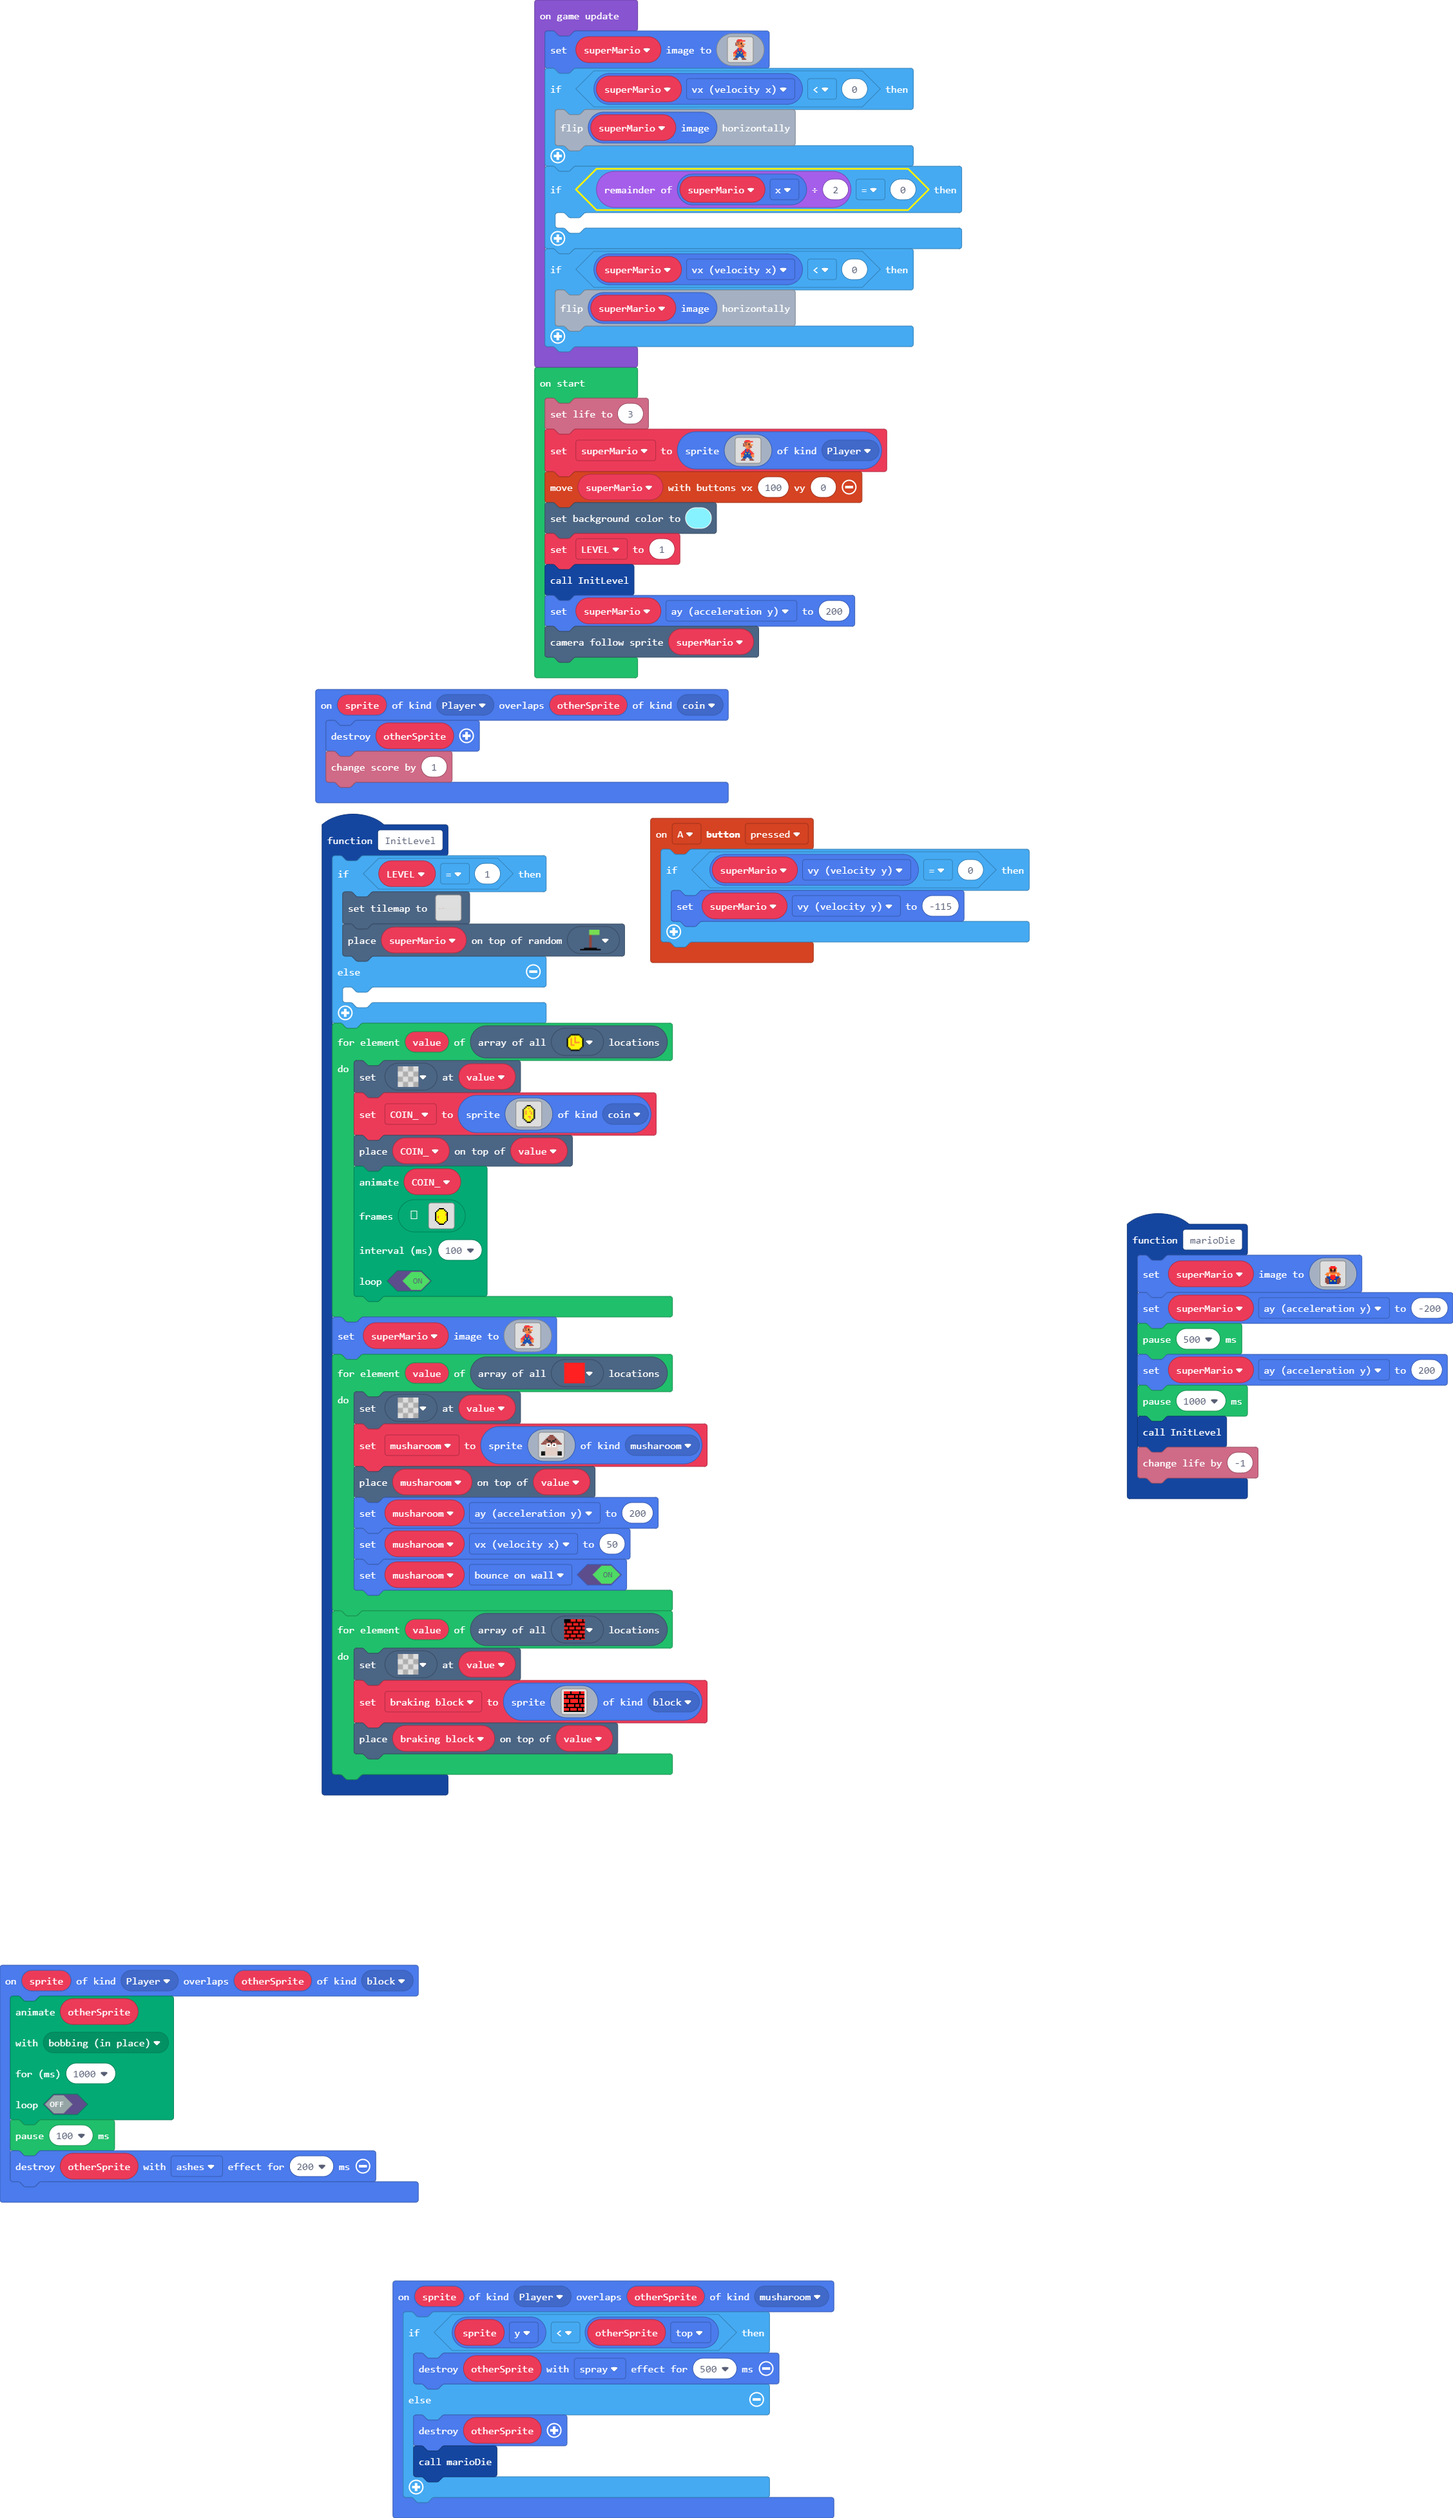
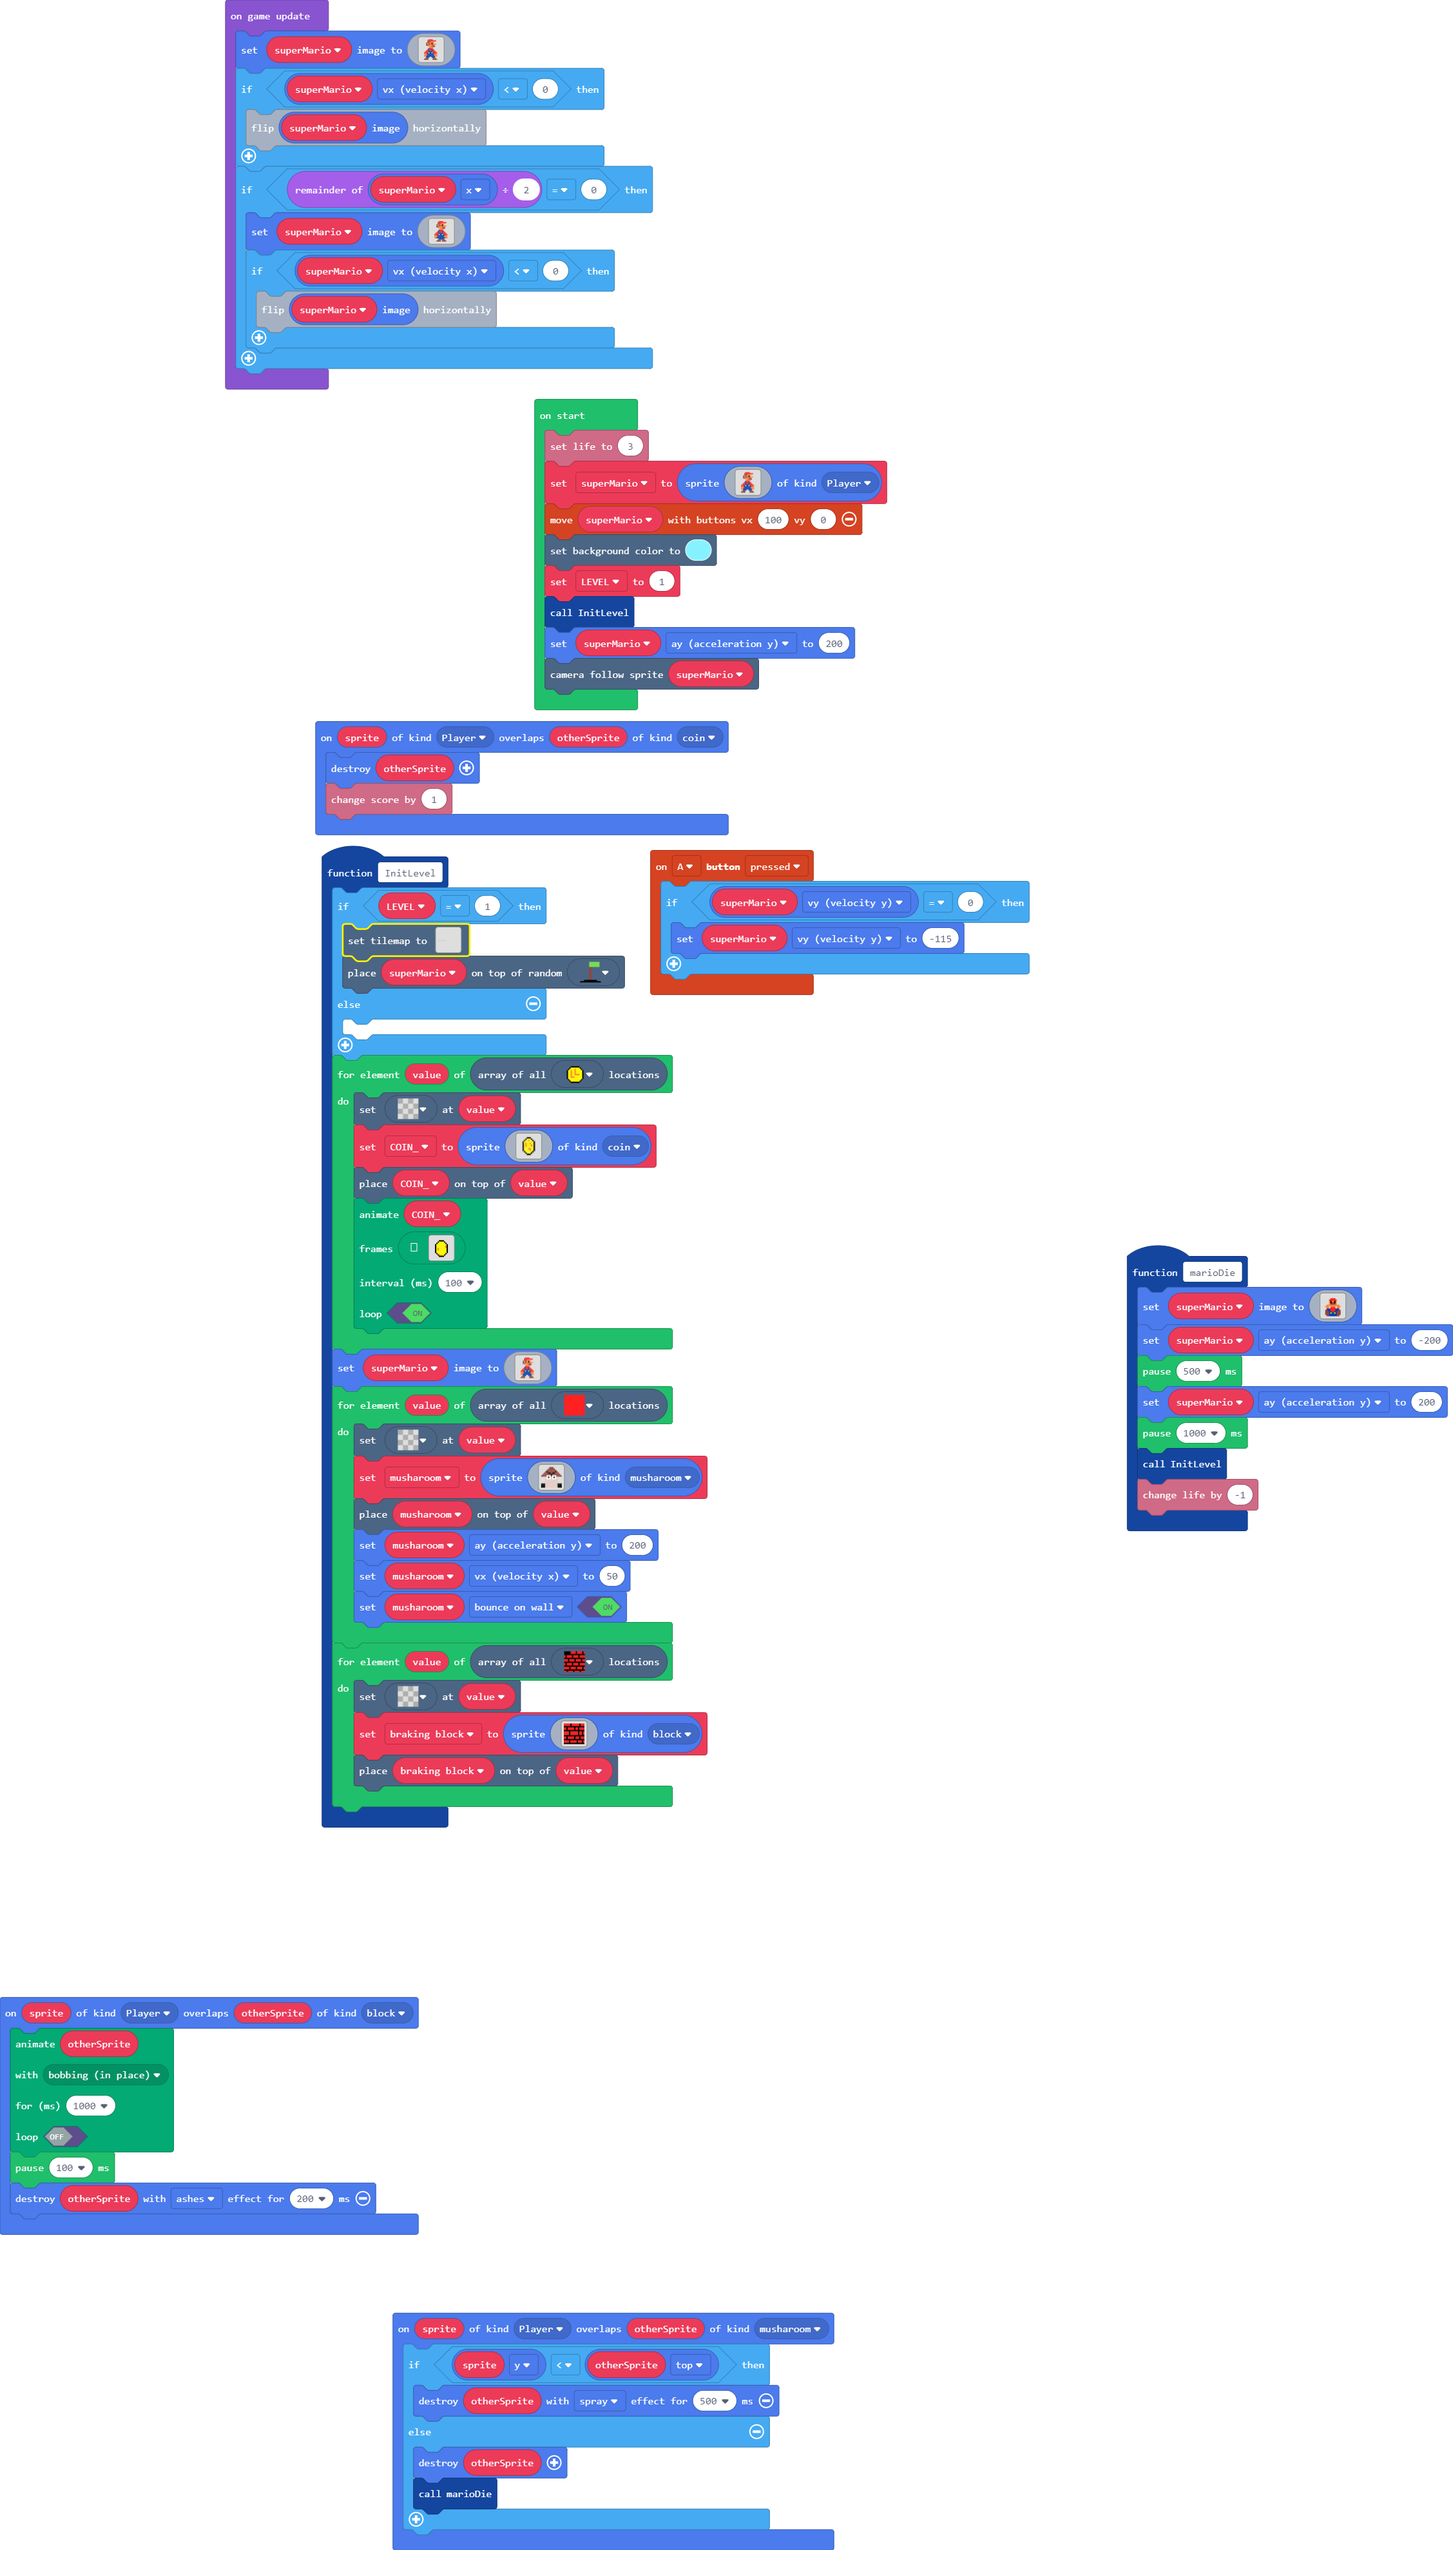
made walking animaation

diff --git a/main.ts b/main.ts
@@ -120,9 +120,6 @@ f f f f f f f f f f f f f f f f
 `
     //% blockIdentity=images._tile
     export const tile6 = img`
-. . . . . . . . . . . . . . . . 
-. . . . . . . . . . . . . . . . 
-. . . . . . . . . . . . . . . . 
 f f f f f f f f f f f f f f f f 
 f 7 7 7 7 7 7 7 7 7 7 7 7 7 7 f 
 f 7 7 7 7 7 7 7 7 7 7 7 7 7 7 f 
@@ -131,6 +128,9 @@ f f f f f f f f f f f f f f f f
 . . . . f 7 7 7 d e f f . . . . 
 . . . . f 7 7 7 7 d e f . . . . 
 . . . . f 7 7 7 7 7 d f . . . . 
+. . . . f 7 7 7 7 7 7 f . . . . 
+. . . . f 7 7 7 7 7 7 f . . . . 
+. . . . f 7 7 7 7 7 7 f . . . . 
 . . . . f 7 7 7 7 7 7 f . . . . 
 . . . . f 7 7 7 7 7 7 f . . . . 
 . . . . f 7 7 7 7 7 7 f . . . . 
@@ -517,9 +517,29 @@ e e e e . . . . e e e e
         superMario.image.flipX()
     }
     if (superMario.x % 2 == 0) {
-    	
-    }
-    if (superMario.vx < 0) {
-        superMario.image.flipX()
+        superMario.setImage(img`
+. . . . 2 2 2 2 . . . . 
+. . . 2 2 2 2 2 2 2 2 . 
+. . . e e e 4 4 4 . . . 
+. . e 4 e 4 4 f 4 . . . 
+. . e 4 e e 4 f 4 4 4 . 
+. . e e 4 4 4 4 e 4 . . 
+. . . . 4 4 4 e e e . . 
+. . . . . 4 4 4 4 . . . 
+. . . . 8 2 2 2 . . . . 
+. . . 2 8 2 2 8 2 . . . 
+. . 2 2 8 2 2 8 2 2 . . 
+. 2 2 2 8 8 8 8 2 2 2 . 
+2 2 2 8 5 8 8 5 8 2 2 2 
+4 4 2 8 8 8 8 8 8 2 4 4 
+4 4 4 8 8 8 8 8 8 4 4 4 
+4 4 8 8 8 8 8 8 8 8 4 4 
+. . . . 8 8 8 8 8 . . . 
+. . . e e e . e e e . . 
+. . e e e e . e e e e . 
+`)
+        if (superMario.vx < 0) {
+            superMario.image.flipX()
+        }
     }
 })
